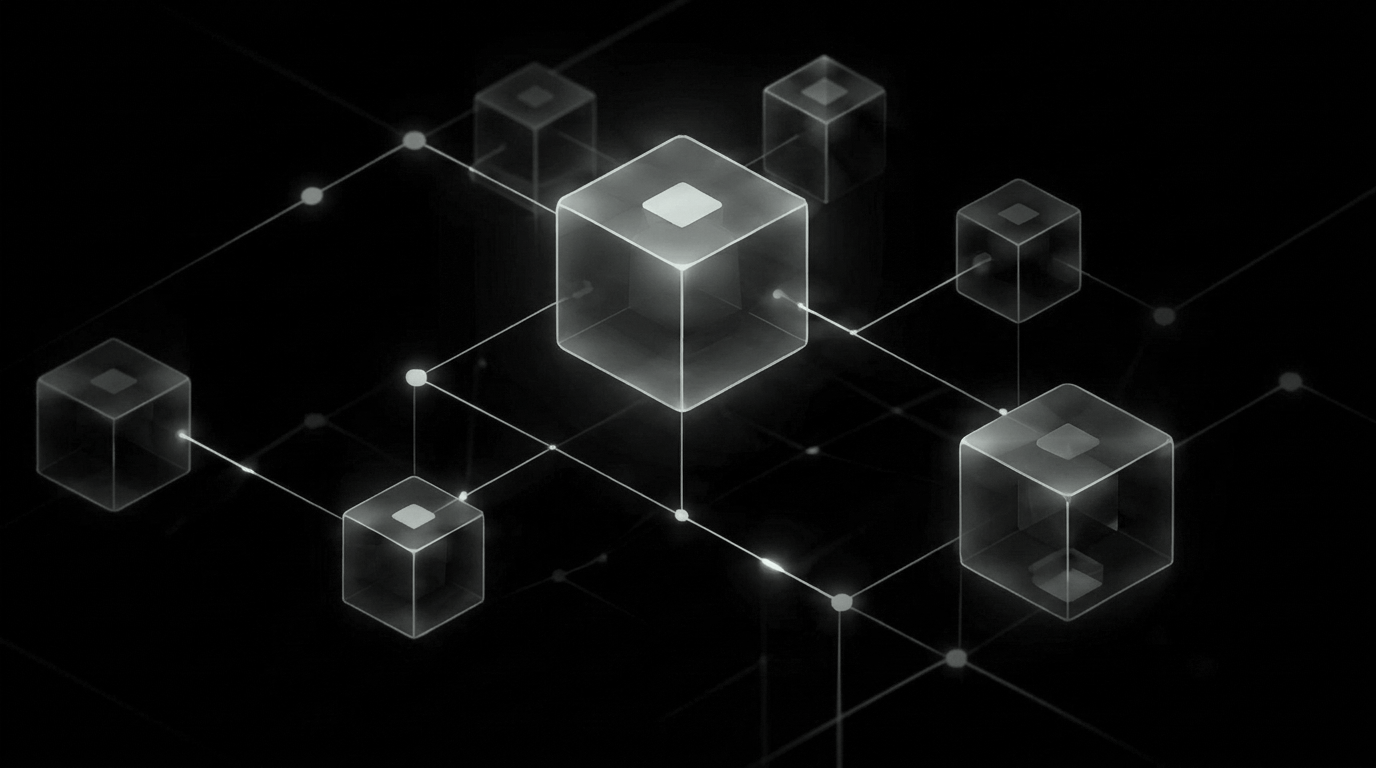
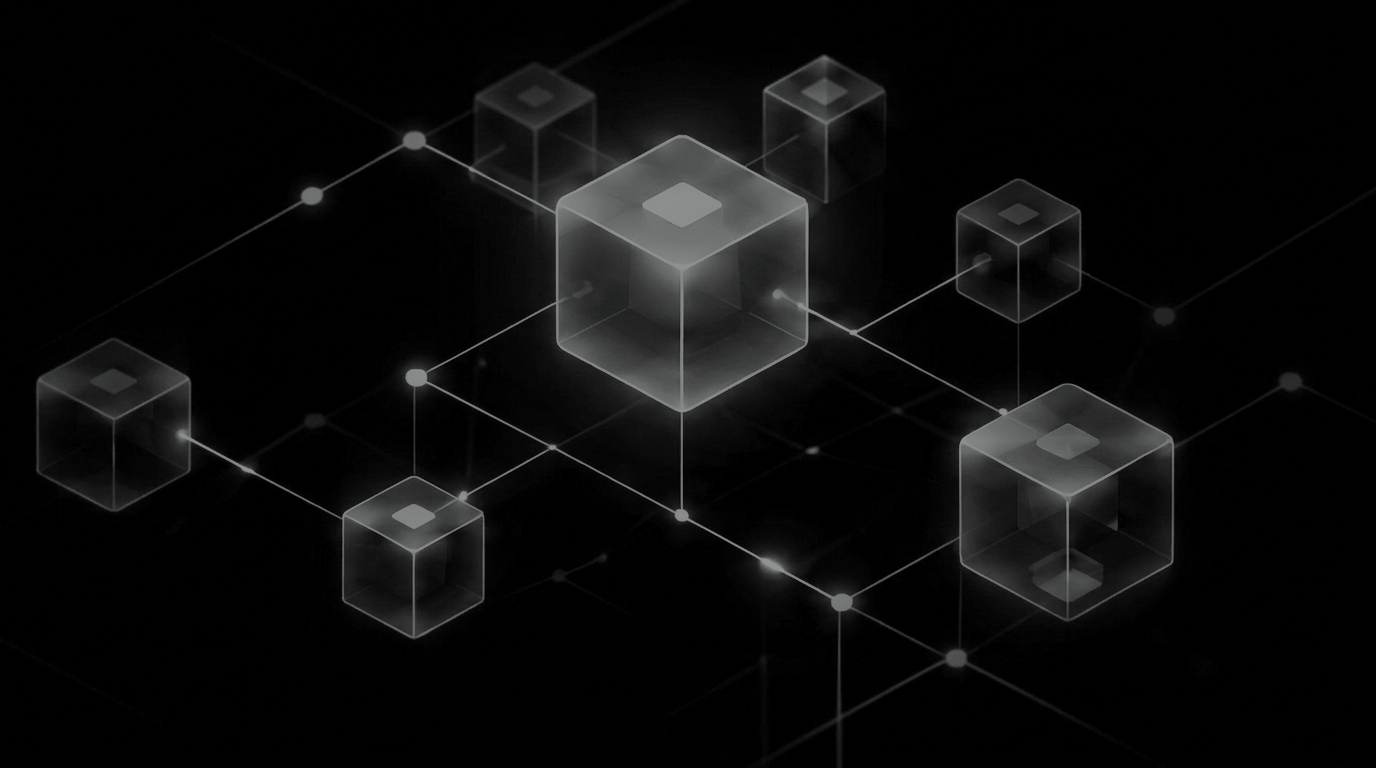
Tone down mesh glows/opacity, elevate higher, fix mobile stats overflow, remove urgent count

diff --git a/frontend/src/views/DashboardOverview.css b/frontend/src/views/DashboardOverview.css
@@ -1226,9 +1226,9 @@
    gradually along a diagonal axis toward the lower-left donor identity area. */
 .dbo-hero-bg-mesh {
   position: absolute;
-  top: -44px;
+  top: -66px;
   right: -6px;
-  bottom: -14px;
+  bottom: 4px;
   left: 0;
   pointer-events: none;
   user-select: none;
@@ -1238,7 +1238,7 @@
   background-position: right top;
   background-repeat: no-repeat;
   mix-blend-mode: multiply;
-  opacity: 0.44;
+  opacity: 0.34;
   -webkit-mask-image: linear-gradient(242deg, rgba(0, 0, 0, 1) 0%, rgba(0, 0, 0, 1) 48%, rgba(0, 0, 0, 0.42) 66%, rgba(0, 0, 0, 0) 82%);
   mask-image: linear-gradient(242deg, rgba(0, 0, 0, 1) 0%, rgba(0, 0, 0, 1) 48%, rgba(0, 0, 0, 0.42) 66%, rgba(0, 0, 0, 0) 82%);
 }
@@ -1246,7 +1246,7 @@
 [data-theme="dark"] .dbo-hero-bg-mesh {
   background-image: url('/donor-hero-mesh-dark.png');
   mix-blend-mode: screen;
-  opacity: 0.48;
+  opacity: 0.38;
 }
 
 .dbo-hero-eyebrow-row {
@@ -2179,9 +2179,65 @@
   }
 }
 
-@media (max-width: 560px) {
+@media (max-width: 640px) {
+  .dbo-hero-bg-mesh {
+    top: -26px;
+    right: -10px;
+    bottom: auto;
+    height: 180px;
+    opacity: 0.24;
+  }
+  [data-theme="dark"] .dbo-hero-bg-mesh {
+    opacity: 0.26;
+  }
   .dbo-hero-name {
-    font-size: 1.55rem;
+    font-size: 1.5rem;
+  }
+  .dbo-hero-actions {
+    gap: 8px;
+  }
+  .dbo-cmd-btn {
+    height: 35px;
+    padding: 0 12px;
+    font-size: 0.78rem;
+  }
+  .dbo-bare-stat {
+    padding: 13px 8px;
+    gap: 9px;
+  }
+  .dbo-bare-stat + .dbo-bare-stat {
+    padding-left: 10px;
+  }
+  .dbo-bare-stat:nth-child(odd) {
+    padding-left: 0;
+  }
+  .dbo-bare-icon-box,
+  .dbo-bare-badge-wrap {
+    width: 30px;
+    height: 30px;
+    border-radius: 8px;
+  }
+  .dbo-bare-icon-box .material-symbols-outlined {
+    font-size: 16px;
+  }
+  .dbo-bare-badge-wrap svg {
+    width: 30px !important;
+    height: 30px !important;
+  }
+  .dbo-bare-val {
+    font-size: 1.06rem;
+    letter-spacing: -0.025em;
+  }
+  .dbo-bare-val--tier {
+    font-size: 0.88rem;
+    white-space: nowrap;
+  }
+  .dbo-bare-lbl {
+    font-size: 0.68rem;
+    white-space: nowrap;
+    overflow: hidden;
+    text-overflow: ellipsis;
+    max-width: 100%;
   }
   .dbo-secondary-grid {
     grid-template-columns: 1fr;

diff --git a/frontend/src/views/DonorView.jsx b/frontend/src/views/DonorView.jsx
@@ -1230,12 +1230,7 @@ export default function DonorView({ contract, walletAddress, walletAlertBanner, 
                       </span>
                       <span className="dbo-bare-text">
                         <span className="dbo-bare-val">{activeCampaignsCount}</span>
-                        <span className="dbo-bare-lbl">
-                          {wt.metricLiveAppeals}
-                          {interfaceMode !== 'simplified' && criticalUrgencyCount > 0 && (
-                            <span className="dbo-bare-accent"> · {criticalUrgencyCount} urgent</span>
-                          )}
-                        </span>
+                        <span className="dbo-bare-lbl">{wt.metricLiveAppeals}</span>
                       </span>
                     </button>
 
